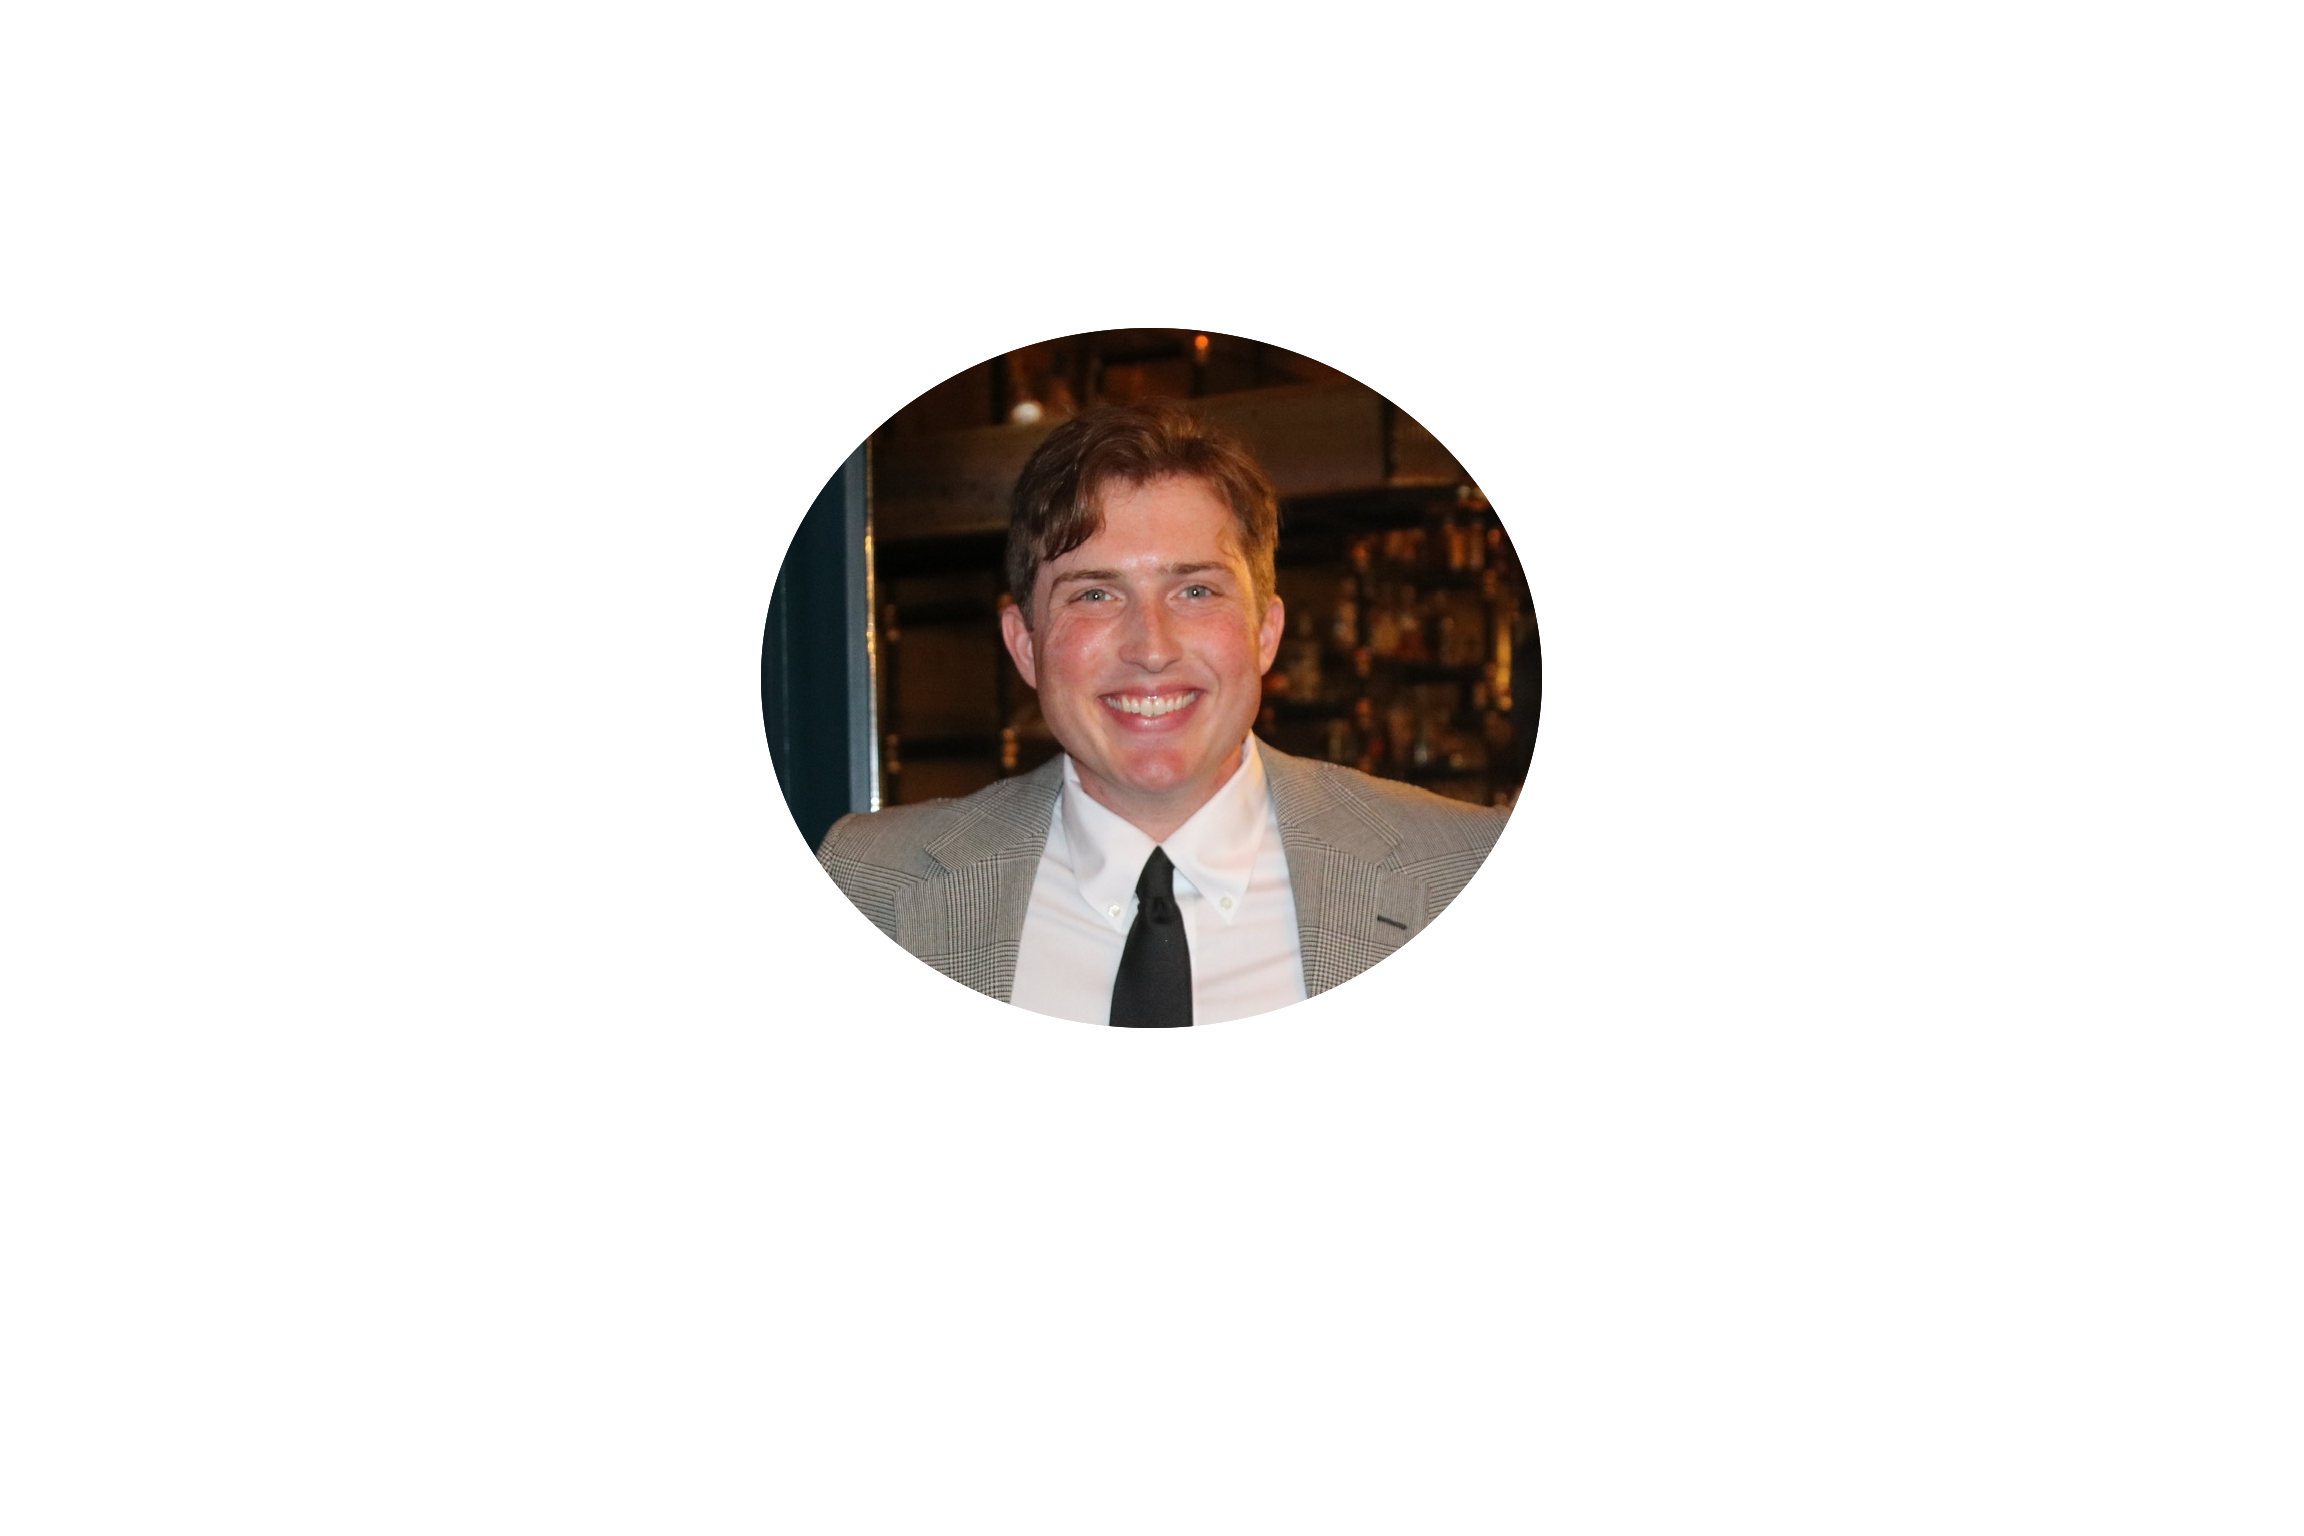
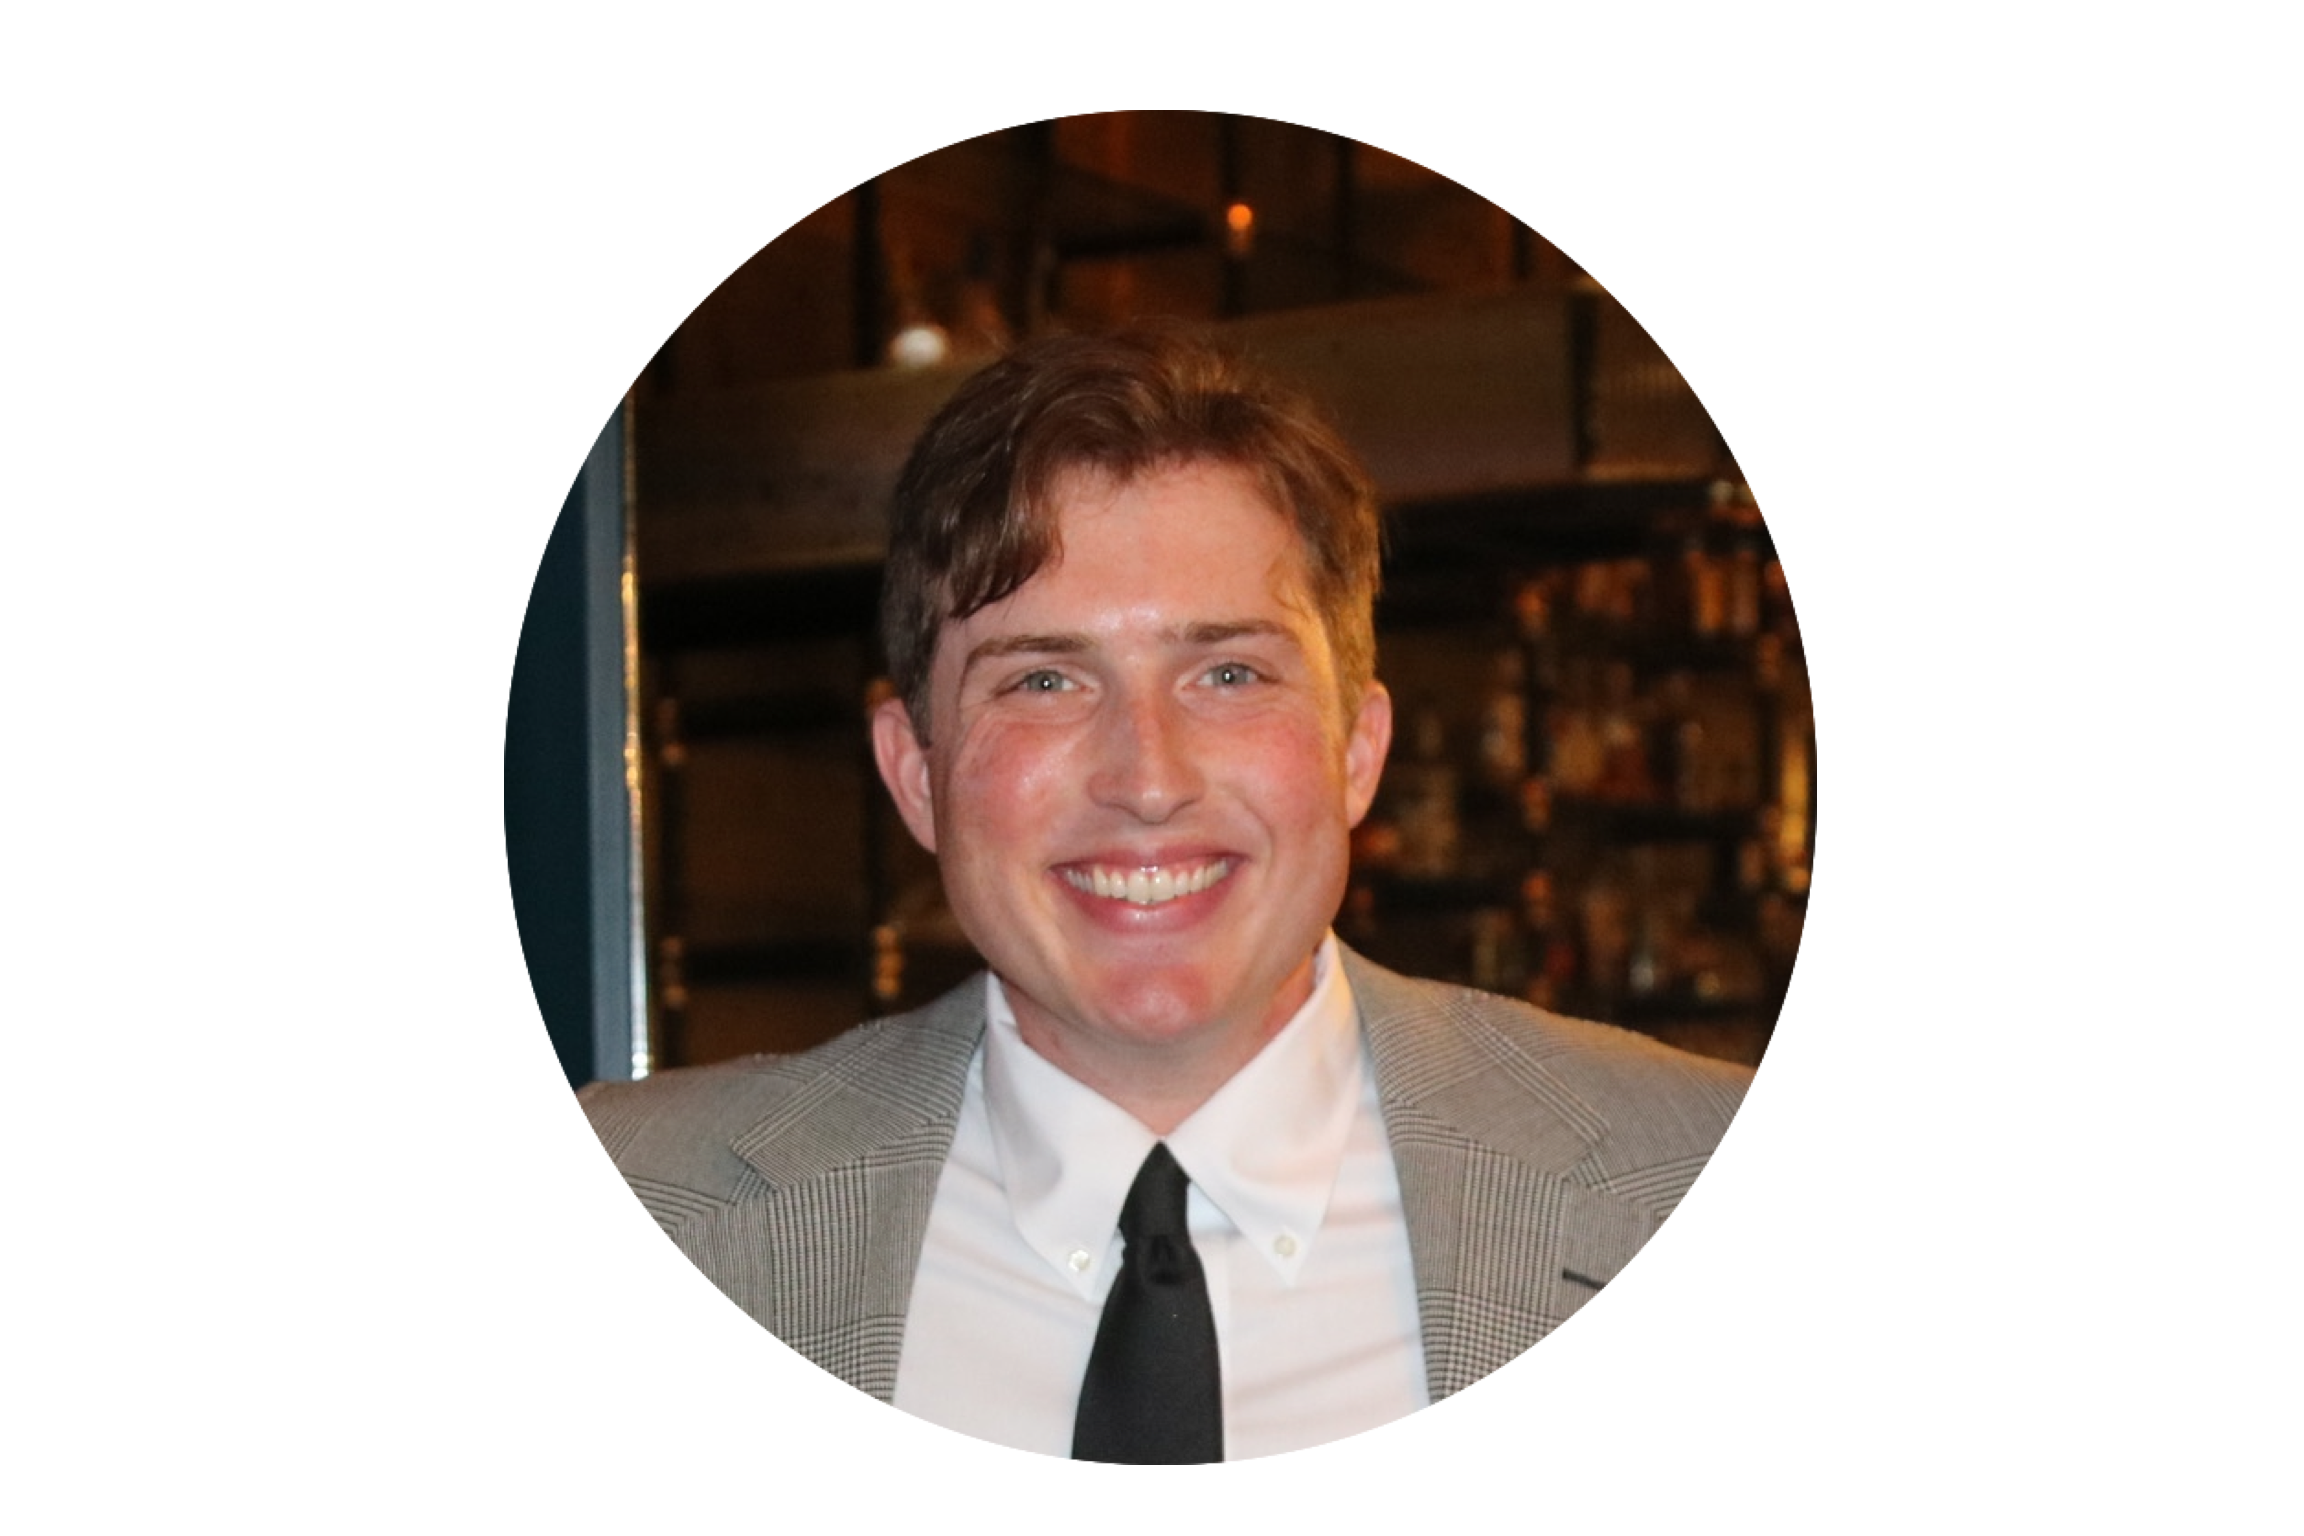
Undo the centering but keep badge size

diff --git a/index.html b/index.html
@@ -16,17 +16,6 @@
         <link href="https://cdn.jsdelivr.net/npm/bootstrap-icons@1.8.1/font/bootstrap-icons.css" rel="stylesheet" />
         <!-- Core theme CSS (includes Bootstrap)-->
         <link href="css/styles.css" rel="stylesheet" />
-        <style>
-            /* Styling to decrease badge size */
-            .security-badge {
-                max-width: 200px; /* You can adjust this value */
-                height: auto;
-            }
-            /* Centering the "About Me" sentence */
-            .about-me-text {
-                text-align: center;
-            }
-        </style>
     </head>
     <body class="d-flex flex-column h-100">
         <main class="flex-shrink-0">
@@ -53,10 +42,9 @@
                             <!-- Header text content-->
                             <div class="text-center text-xxl-start">
                                 <div class="badge bg-gradient-primary-to-secondary text-white mb-4"><div class="text-uppercase">Who am I?</div></div>
-                                <div class="fs-3 fw-light text-muted">A talented, passionate</div>
-                                <h1 class="display-3 fw-bolder mb-5"><span class="text-gradient d-inline">Software Engineer</span></h1>
-                                <p class="lead fw-light mb-4 about-me-text">My name is Blake Schilleci and I'm a Software Engineer</p>
-                                <p class="text-muted about-me-text">I have experience in both the Defense and Tech industries. Both have taught me about delivering quality products with high velocity. My experiences and skillset have me ready for any challenge!</p>
+                                <div class="fs-3 fw-light text-muted">A talented & passionate</div>
+                                <h1 class="display-3 fw-bolder mb-5"><span class="text-gradient d-inline">Software, Cloud, DevSecOps Engineer</span></h1>
+                                <p class="text-muted">I have experience in both the Defense and Tech industries. Both have taught me about delivering quality products with high velocity. My experiences and skillset have me ready for any challenge!</p>
                                 <div class="d-grid gap-3 d-sm-flex justify-content-sm-center justify-content-xxl-start mb-3">
                                     <a class="btn btn-primary btn-lg px-5 py-3 me-sm-3 fs-6 fw-bolder" href="resume.html">Resume</a>
                                 </div>
